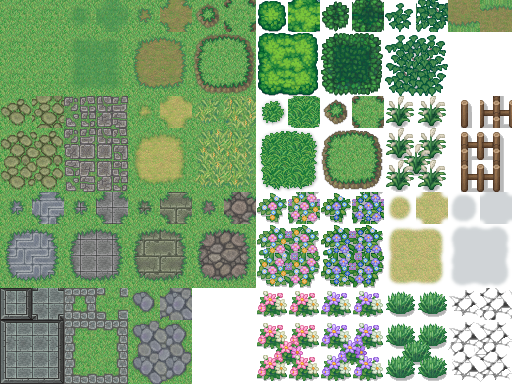
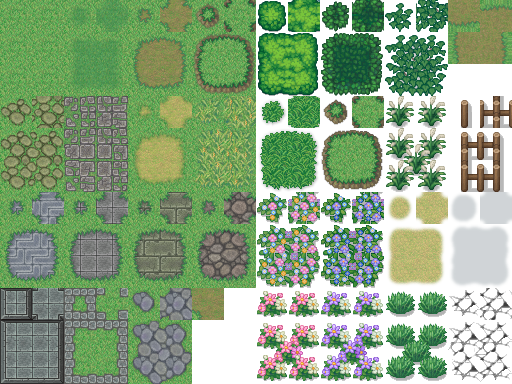
画像を変更

Changed region(s): [[0.875, 0.0625, 1.0, 0.1875], [0.375, 0.75, 0.4375, 0.8438]]

diff --git a/stage.cpp b/stage.cpp
@@ -20,9 +20,9 @@ int Field[MAP_Y_FIELD][MAP_X_FIELD] = {
 	{208,209,210,215,  0,  0,  0,  0,  0,  0,  0,  0,  0,  0,  0,  0,  0,  0,  0,  0,  0,  0,  0,  0,  0,  0,  0,  0,  0,  0,  0,  0,  0,  0,  0,  0,  0,  0,  0,  0},
 	{216,217,218,223,  0,  0,  0,  4,  0,  0,  0,  0,  0,  0,  0,  0,  0,  0,  0,  0,  0,  0,  0,  0,  0,  0,  0,  0,  0,  0,  0,  0,  0,  0,  0,  0,  0,  0,  0,  0},
 	{224,225,226,231,  0,  0,  0,  0,  0,  0,  0,  0,  0,  0,  0,  0,  0,  0,  0,  0,  0,  0,  0,  0,  0,  0,  0,  0,  0,  0,  0,  0,  0,  0,  0,  0,  0,  0,  0,  0},
-	{ 20, 15, 21,  0,  0, 22, 23,  0,  0,  0,  0,  0,  0,  0,  0,  0,  0,  0,  0,  0,  0,  0,  0,  0,  0,  0,  0,  0,  0,  0,  0,  0,  0,  0,  0,  0,  0,  0,  0,  0},
-	{ 36, 14, 37, 54,  0, 38, 39,  0,  0,  0,  0,  0,  0,  0,  0,  0,  0,  0,  0,  0,  0,  0,  0,  0,  0,  0,  0,  0,  0,  0,  0,  0,  0,  0,  0,  0,  0,  0,  0,  0},
-	{  0,  0,  0,  0,  0,  0,  0,  0,  0,  0,  0,  0,  0,  0,  0,  0,  0,  0,  0,  0,  0,  0,  0,  0,  0,  0,  0,  0,  0,  0,  0,  0,  0,  0,  0,  0,  0,  0,  0,  0},
+	{ 20, 15, 15, 15, 21, 22, 23,  0,  0,  0,  0,  0,  0,  0,  0,  0,  0,  0,  0,  0,  0,  0,  0,  0,  0,  0,  0,  0,  0,  0,  0,  0,  0,  0,  0,  0,  0,  0,  0,  0},
+	{ 36, 14, 14,150, 31, 38, 39,  0,  0,  0,  0,  0,  0,  0,  0,  0,  0,  0,  0,  0,  0,  0,  0,  0,  0,  0,  0,  0,  0,  0,  0,  0,  0,  0,  0,  0,  0,  0,  0,  0},
+	{  0,  0, 54, 30, 31,  0,  0,  0,  0,  0,  0,  0,  0,  0,  0,  0,  0,  0,  0,  0,  0,  0,  0,  0,  0,  0,  0,  0,  0,  0,  0,  0,  0,  0,  0,  0,  0,  0,  0,  0},
 	{  0,  0,  0,  0,  0,  0,  0, 54,  0,  0,  0,  0,  0,  0,  0,  0,  0,  0,  0,  0,  0,  0,  0,  0,  0,  0,  0,  0,  0,  0,  0,  0,  0,  0,  0,  0,  0,  0,  0,  0},
 	{  0,  0,  0,  0,  0,  0,  0,  0,  0,  0,  0,  0,  0,  0,  6,  0,  0,  0,  0,  0,  0,  0,  0,  0,  0,  0,  0,  0,  0,  0,  0,  0,  0,  0,  0,  0,  0,  0,  0,  0},
 	{  0,  0,  0,  0,  0,  0,  0,  0,  0,  0,  0,  0,  0,  0,  0,  0,  0,  0,  0,  0,  0,  0,  0,  0,  0,  0,  0,  0,  0,  0,  0,  0,  0,  0,  0,  0,  0,  0,  0,  0},
@@ -101,6 +101,7 @@ bool IsPass(XY pos)
 
 	switch (Field[Index.y][Index.x])
 	{
+	case  22:
 	case 192:
 	case 193:
 	case 198:
